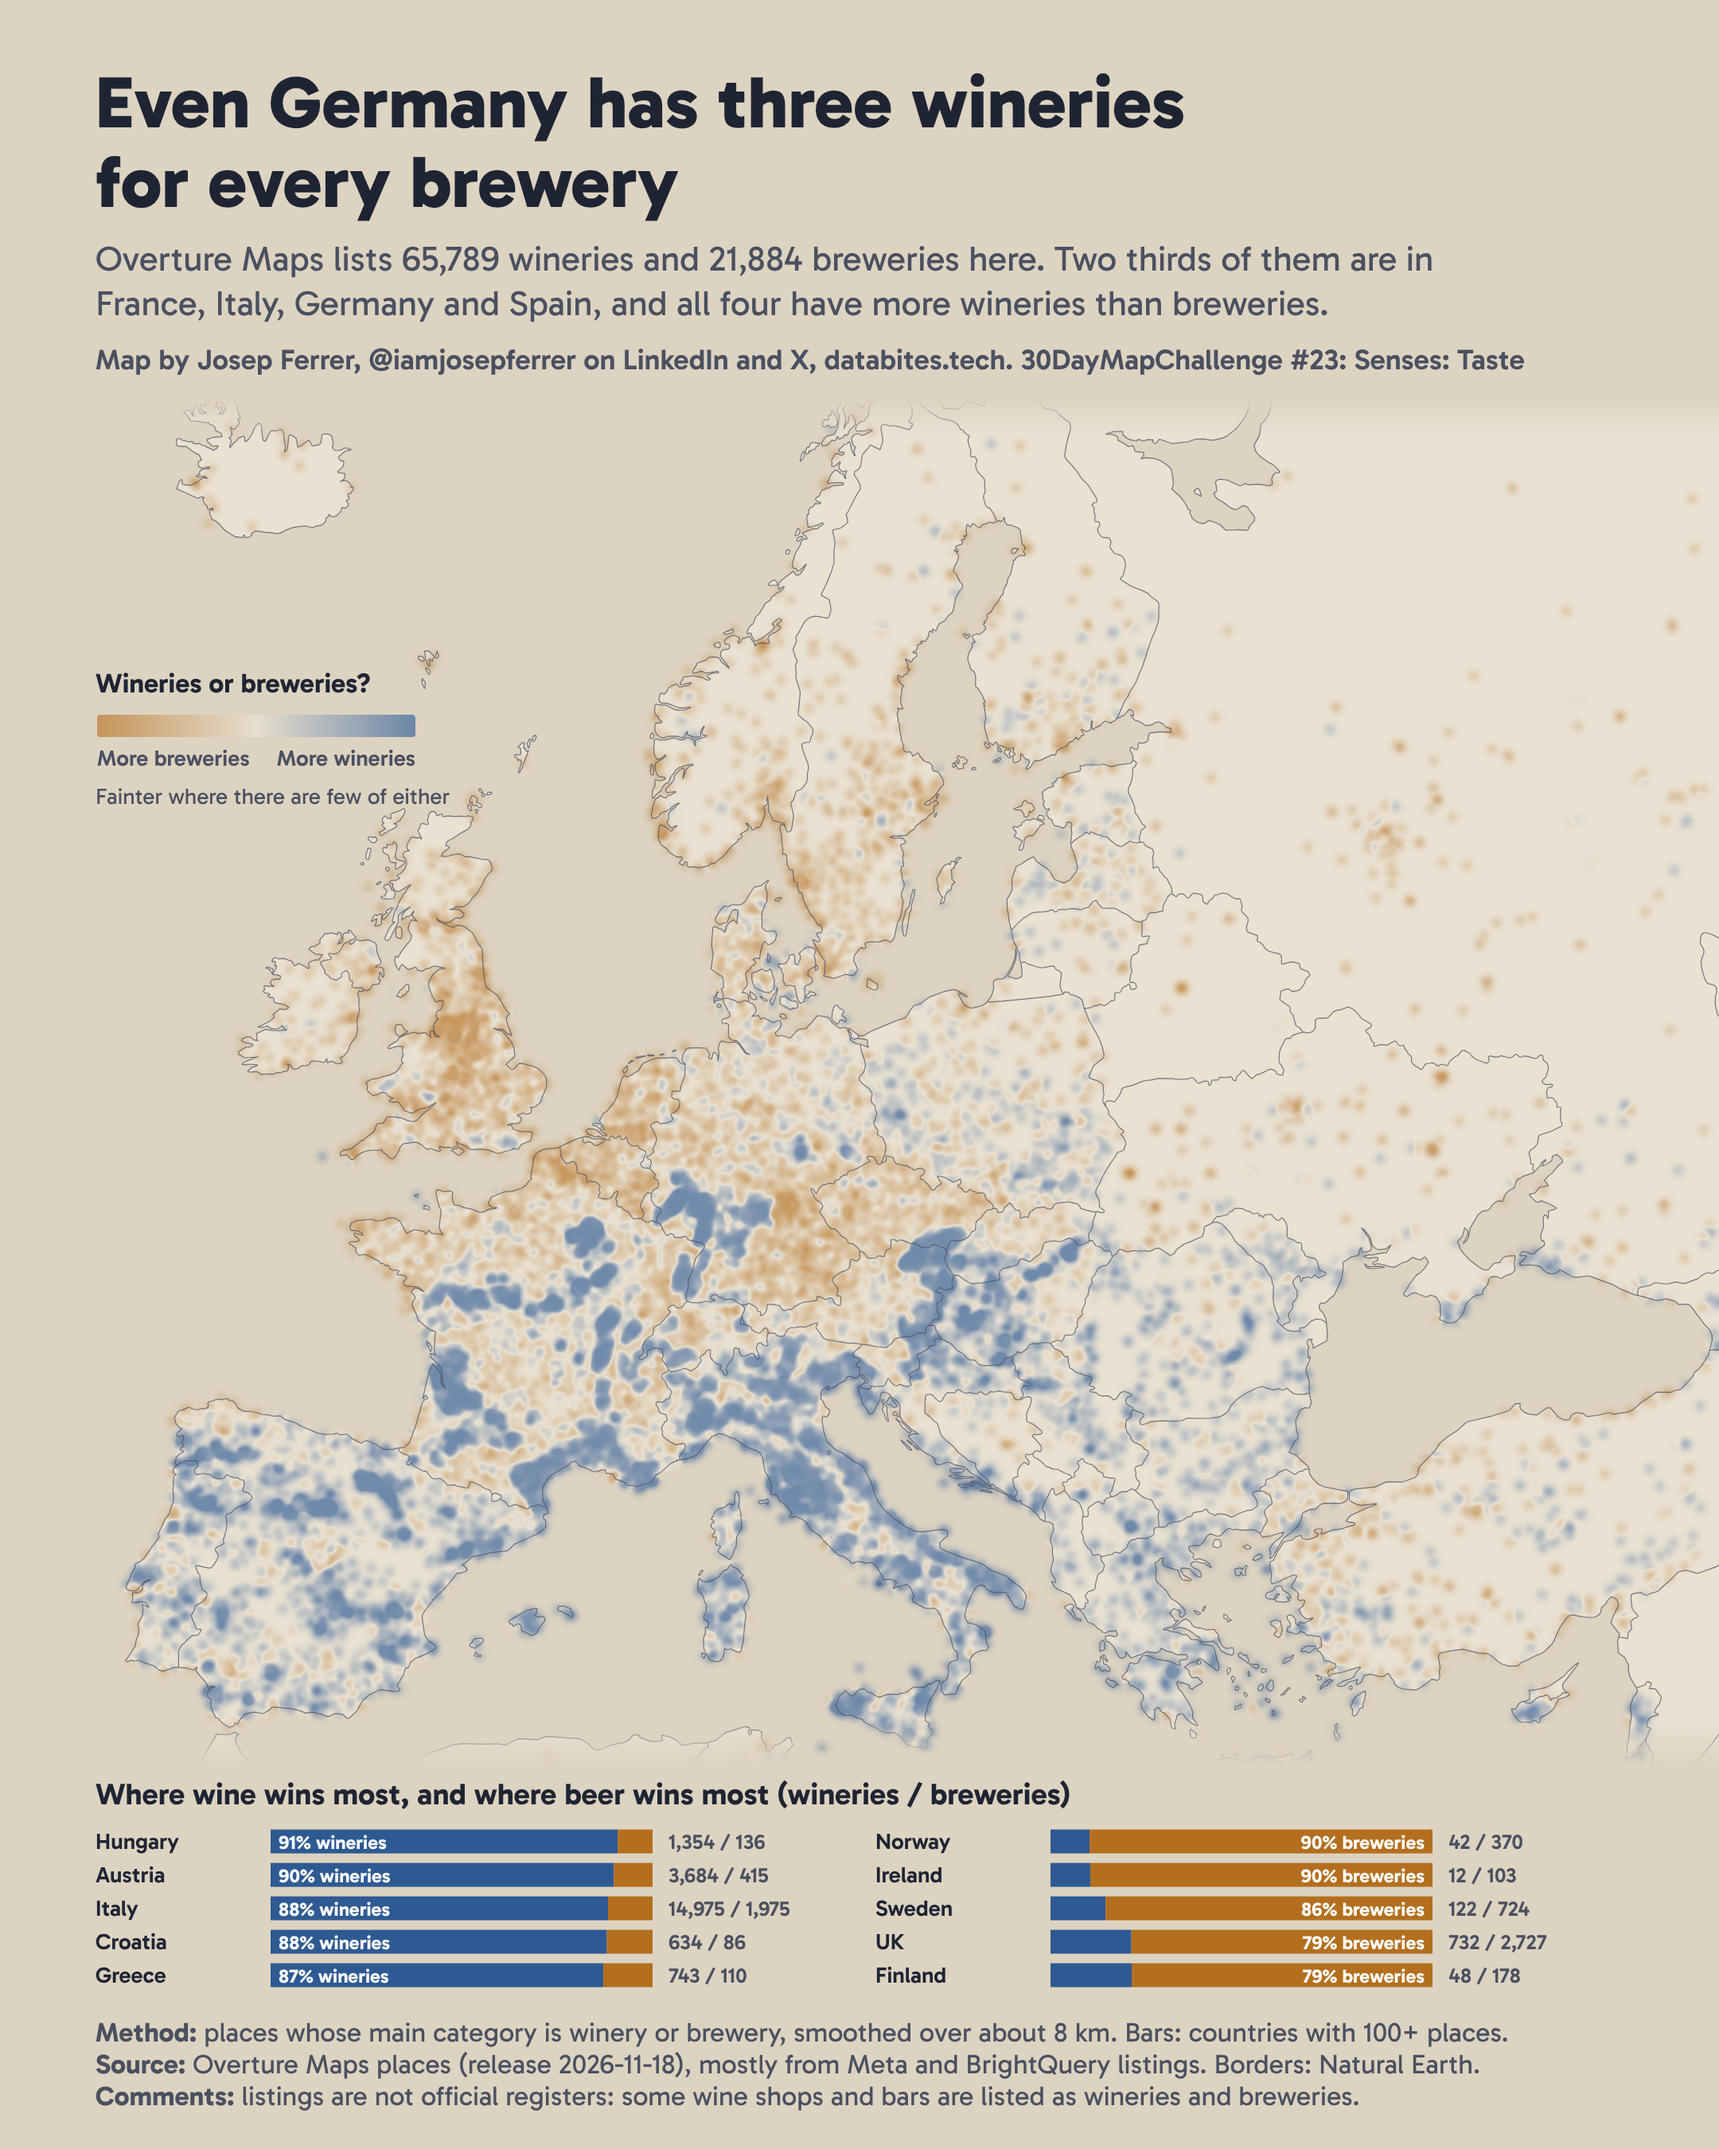
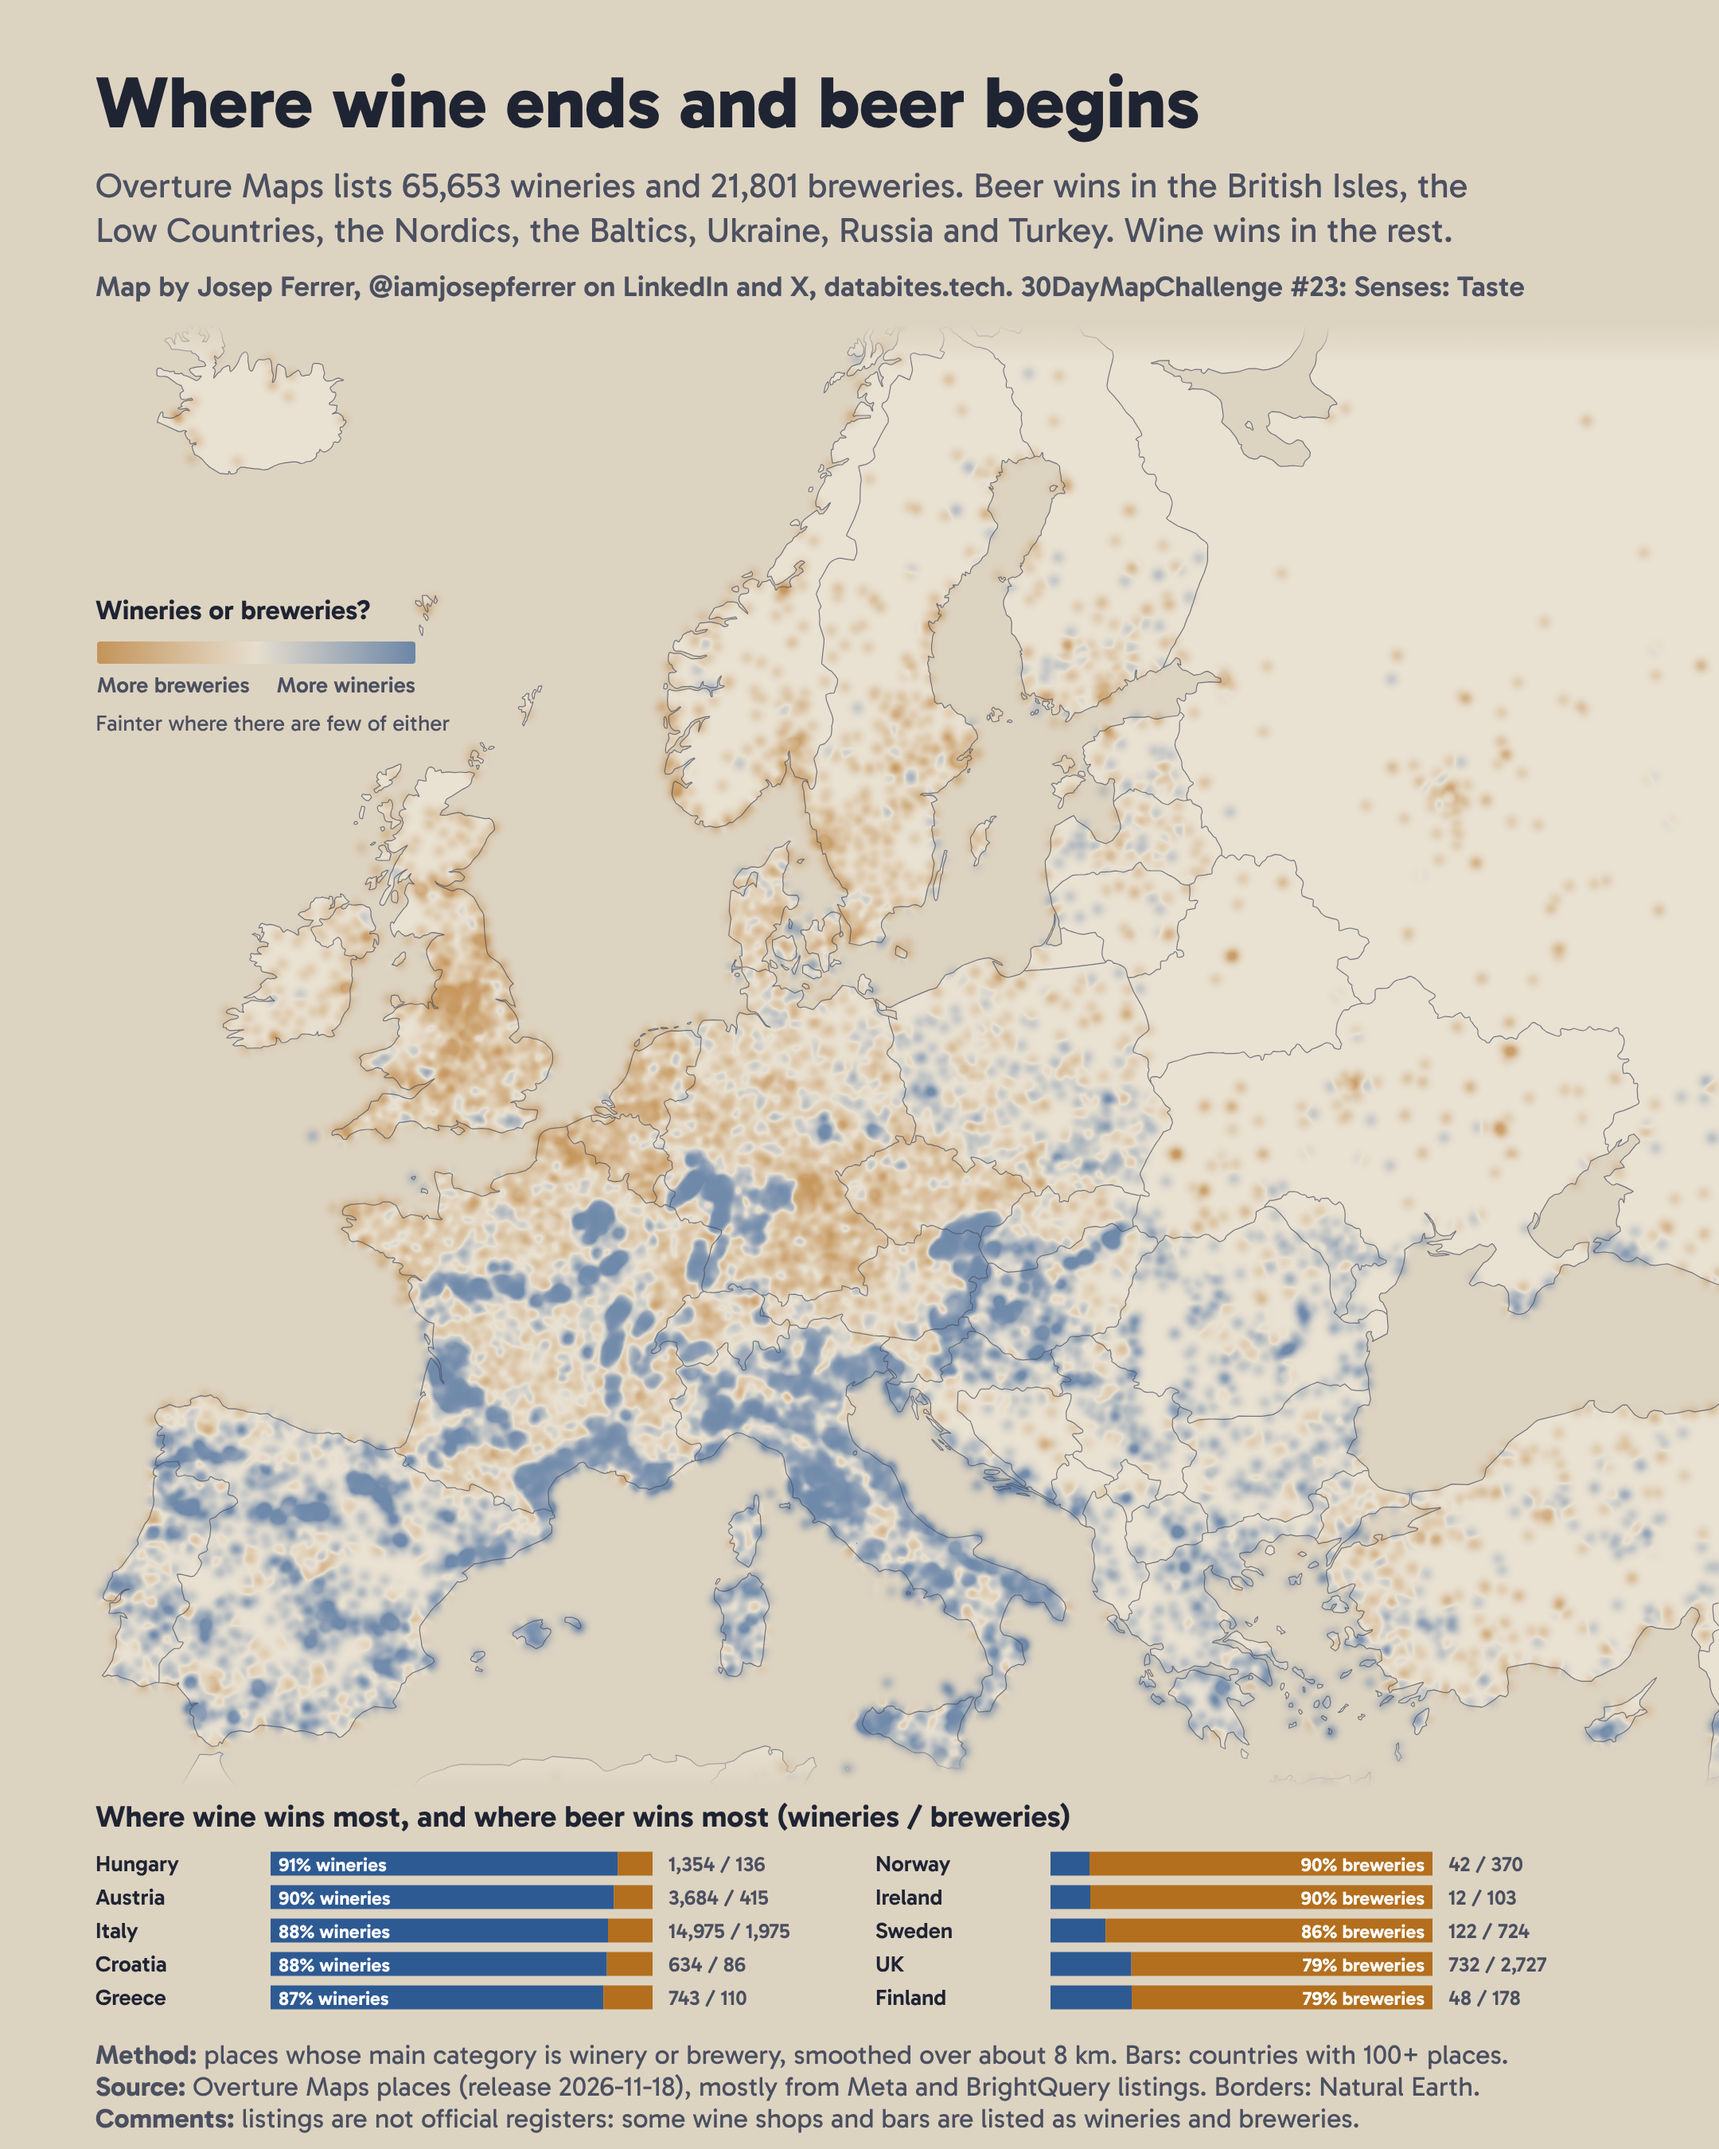
Day 23: new headline, Where wine ends and beer begins

Changed region(s): [[0.062, 0.0311, 1.0, 0.9956], [0.7755, 0.3422, 0.8685, 0.4044], [0.9926, 0.4978, 1.0, 0.5289]]

diff --git a/2026/day23_taste/day23_taste.py b/2026/day23_taste/day23_taste.py
@@ -44,8 +44,8 @@ raw = pd.read_parquet(HERE / "wineries_breweries.parquet")  # from extract_place
 to3035 = Transformer.from_crs(4326, 3035, always_xy=True)
 x, y = to3035.transform(raw.lon.values, raw.lat.values)
 places = gpd.GeoDataFrame(raw, geometry=gpd.points_from_xy(x, y), crs=3035)
-MAP_TOP = 250
-frame = Frame(2300000, 6900000, 1480000, 5140000, 0, 1080, MAP_TOP)
+MAP_TOP = 204
+frame = Frame(2380000, 6680000, 1480000, 5140000, 0, 1080, MAP_TOP)  # Day 21's frame, a little closer in
 places = places[places.within(frame.box())].reset_index(drop=True)  # every number on the chart counts what the map shows
 world = countries()
 world["geometry"] = world.geometry.buffer(0)
@@ -67,7 +67,10 @@ by_country["wine_share"] = by_country.winery / by_country.total
 wineries, breweries = int((places.kind == "winery").sum()), int((places.kind == "brewery").sum())
 de = by_country.loc["Germany"]
 print(f"{wineries:,} wineries, {breweries:,} breweries; Germany {int(de.winery):,} / {int(de.brewery):,} = {de.winery / de.brewery:.2f}")
-assert 2.85 < de.winery / de.brewery < 3.15  # the headline: three wineries for every brewery
+assert 2.85 < de.winery / de.brewery < 3.15  # the README: Germany has three wineries for every brewery
+beer = set(by_country[(by_country.total >= 100) & (by_country.wine_share < 0.5)].index)
+assert beer == {"United Kingdom", "Ireland", "Belgium", "Netherlands", "Norway", "Sweden", "Finland", "Denmark", "Latvia",
+                "Ukraine", "Russia", "Turkey"}  # the dek: where beer wins, among countries with 100+ places
 four = by_country.sort_values("total", ascending=False).head(4)
 assert set(four.index) == {"France", "Italy", "Germany", "Spain"} and (four.wine_share > 0.5).all()  # the dek
 assert four.total.sum() / by_country.total.sum() > 2 / 3  # "two thirds of them"
@@ -148,12 +151,12 @@ for col, top in enumerate(columns):
 BASE = TOP + 16 + 5 * 21
 
 # 4. Headline, dek, byline and footer
-HEAD = [(80, "Even Germany has three wineries", 46, 800, C["ink"]), (130, "for every brewery", 46, 800, C["ink"]),
-        (170, f"Overture Maps lists {wineries:,} wineries and {breweries:,} breweries here. Two thirds of them are in", 22, 400, C["ink2"]),
-        (198, "France, Italy, Germany and Spain, and all four have more wineries than breweries.", 22, 400, C["ink2"])]
+HEAD = [(80, "Where wine ends and beer begins", 46, 800, C["ink"]),
+        (124, f"Overture Maps lists {wineries:,} wineries and {breweries:,} breweries. Beer wins in the British Isles, the", 22, 400, C["ink2"]),
+        (152, "Low Countries, the Nordics, the Baltics, Ukraine, Russia and Turkey. Wine wins in the rest.", 22, 400, C["ink2"])]
 for yy, words, size, weight, colour_ in HEAD:
     svg.append(text(flush(words, size, weight), yy, words, size, weight, colour_))
-svg.append(byline(232, "30DayMapChallenge #23: Senses: Taste").replace('font-size="20"', 'font-size="18"').replace('x="60.0"', f'x="{flush("M", 18, 600):.1f}"'))
+svg.append(byline(186, "30DayMapChallenge #23: Senses: Taste").replace('font-size="20"', 'font-size="18"').replace('x="60.0"', f'x="{flush("M", 18, 600):.1f}"'))
 svg += footer([
     ("Method:", "places whose main category is winery or brewery, smoothed over about 8 km. Bars: countries with 100+ places."),
     ("Source:", "Overture Maps places (release 2026-11-18), mostly from Meta and BrightQuery listings. Borders: Natural Earth."),

diff --git a/2026/README.md b/2026/README.md
@@ -24,7 +24,7 @@ One map a day about Europe, each built around a clear finding.
 - [Day 20, Hexagons: Small hexagons, big crowds: where the EU's people pack in](#day-20-hexagons)
 - [Day 21, OpenStreetMap: Every cycle path that volunteers have mapped in OpenStreetMap](#day-21-openstreetmap)
 - [Day 22, Projections: Finland looks twice as big as Spain on a flat web map](#day-22-projections)
-- [Day 23, Senses: Taste: Even Germany has three wineries for every brewery](#day-23-senses-taste)
+- [Day 23, Senses: Taste: Where wine ends and beer begins](#day-23-senses-taste)
 - [Day 24, Network: Europe drawn only by its power lines](#day-24-network)
 - [Day 25, Is this a map?: Europe's population in 132 lines](#day-25-is-this-a-map)
 - [Data sources and licenses](#data-sources-and-licenses)
@@ -973,11 +973,11 @@ Turkey is the biggest country with a solid shape, and web maps draw it smaller t
 
 ## Day 23: Senses: Taste
 
-![Even Germany has three wineries for every brewery](day23_taste/day23_wine_beer.png)
+![Where wine ends and beer begins](day23_taste/day23_wine_beer.png)
 
 ### What it shows
 
-Every winery and brewery listed in Overture Maps on this map: 65,789 wineries and 21,884 breweries. Blue means wineries outnumber breweries in that area, amber means breweries do, and the colour fades where there are few of either.
+Every winery and brewery listed in Overture Maps on this map: 65,653 wineries and 21,801 breweries. Blue means wineries outnumber breweries in that area, amber means breweries do, and the colour fades where there are few of either.
 
 Beer wins in the UK and Ireland, the Low Countries, the Nordics and the Baltics, in Ukraine, Belarus and Russia, and narrowly in Turkey. Wine wins nearly everywhere else, including Germany: it has 7,944 wineries and 2,669 breweries, three for every brewery. Half of them (53%) sit within 15 km of the Rhine or the Mosel, against 12% of its breweries, so wine shows up as a blue strip through amber Germany. Official counts point the same way and further: Germany had 14,150 wine-growing businesses in 2023 ([Deutsches Weininstitut](https://www.deutscheweine.de/fileadmin/DWI/News_Medien/Publikationen/Deutscher_Wein_Statistik/Statistik_2025.pdf)) and 1,415 breweries in 2025 ([Destatis](https://www.destatis.de/DE/Presse/Pressemitteilungen/Zahl-der-Woche/2026/PD26_32_p002.html)).
 
@@ -989,7 +989,7 @@ Beer wins in the UK and Ireland, the Low Countries, the Nordics and the Baltics,
 | Croatia (634 / 86) | 88% | United Kingdom (732 / 2,727) | 79% |
 | Greece (743 / 110) | 87% | Finland (48 / 178) | 79% |
 
-Figures in brackets are wineries / breweries, for countries with at least 100 places. All 57 countries are in [`wineries_breweries_by_country.csv`](day23_taste/wineries_breweries_by_country.csv).
+Figures in brackets are wineries / breweries, for countries with at least 100 places. All 56 countries are in [`wineries_breweries_by_country.csv`](day23_taste/wineries_breweries_by_country.csv).
 
 ### How it was made
 
@@ -1002,7 +1002,7 @@ Figures in brackets are wineries / breweries, for countries with at least 100 pl
 
 - **Listings, not registers:** about half the places come from Meta and most of the rest from BrightQuery. Some wine shops and bars are listed as wineries or breweries, and small producers without a listing are missing. Filtering by Overture's confidence score barely moves the shares (Germany stays at 75% wineries), so every place is kept.
 - **A winery is not a vineyard:** the map counts businesses, not hectares or litres. A big brewery and a family wine cellar count once each.
-- **Countries cut by the map:** Russia, Turkey and others count only the part shown. 813 places stand in the sea, more than 1 km from Natural Earth's coastline, and count in the totals but for no country.
+- **Countries cut by the map:** Russia, Turkey and others count only the part shown. 811 places stand in the sea, more than 1 km from Natural Earth's coastline, and count in the totals but for no country.
 
 **Files:** [`extract_places.py`](day23_taste/extract_places.py) reads the places from Overture and writes [`wineries_breweries.parquet`](day23_taste/wineries_breweries.parquet). [`day23_taste.py`](day23_taste/day23_taste.py) draws the map from it and writes [`wineries_breweries_by_country.csv`](day23_taste/wineries_breweries_by_country.csv).
 
